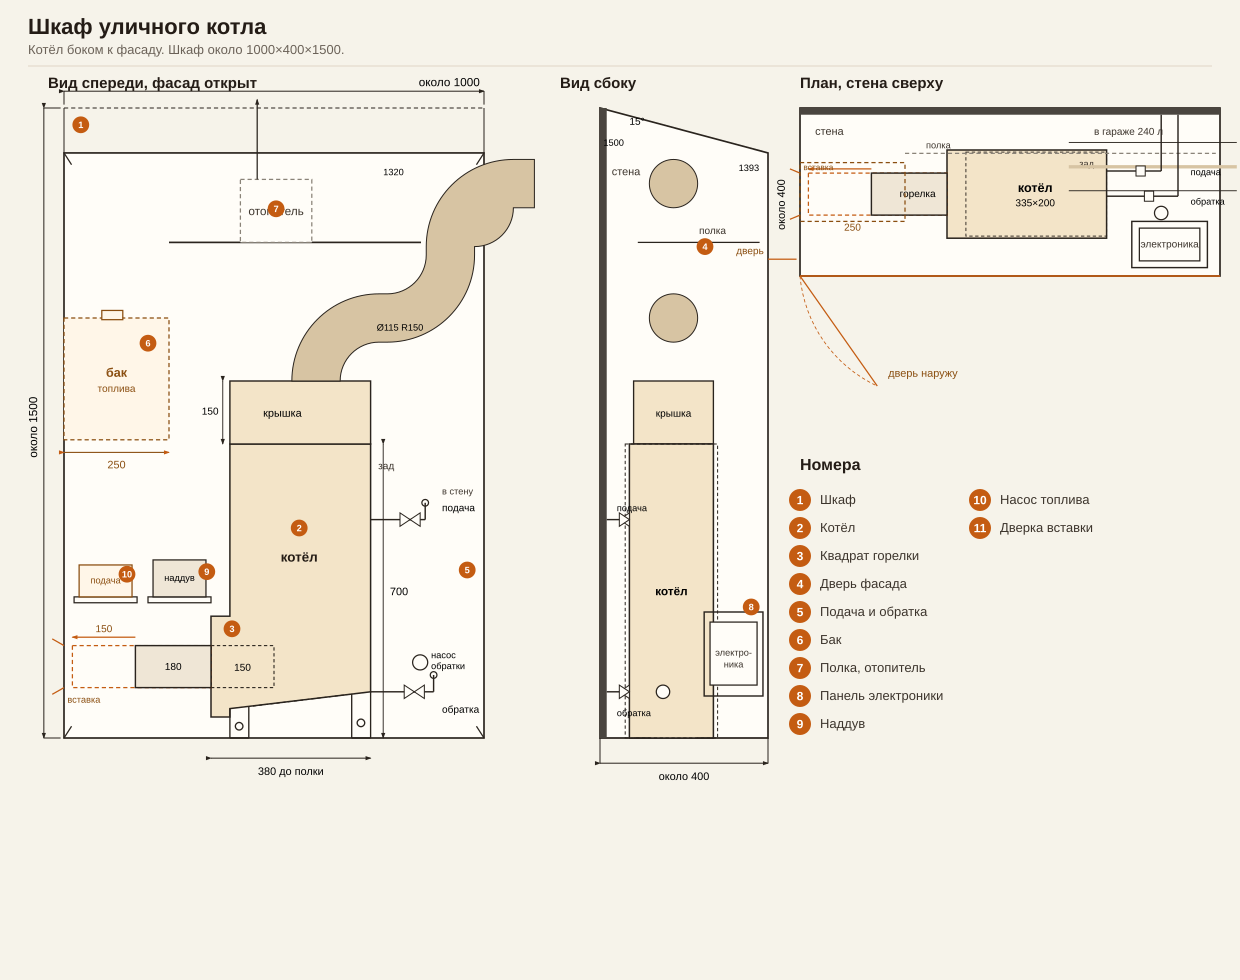
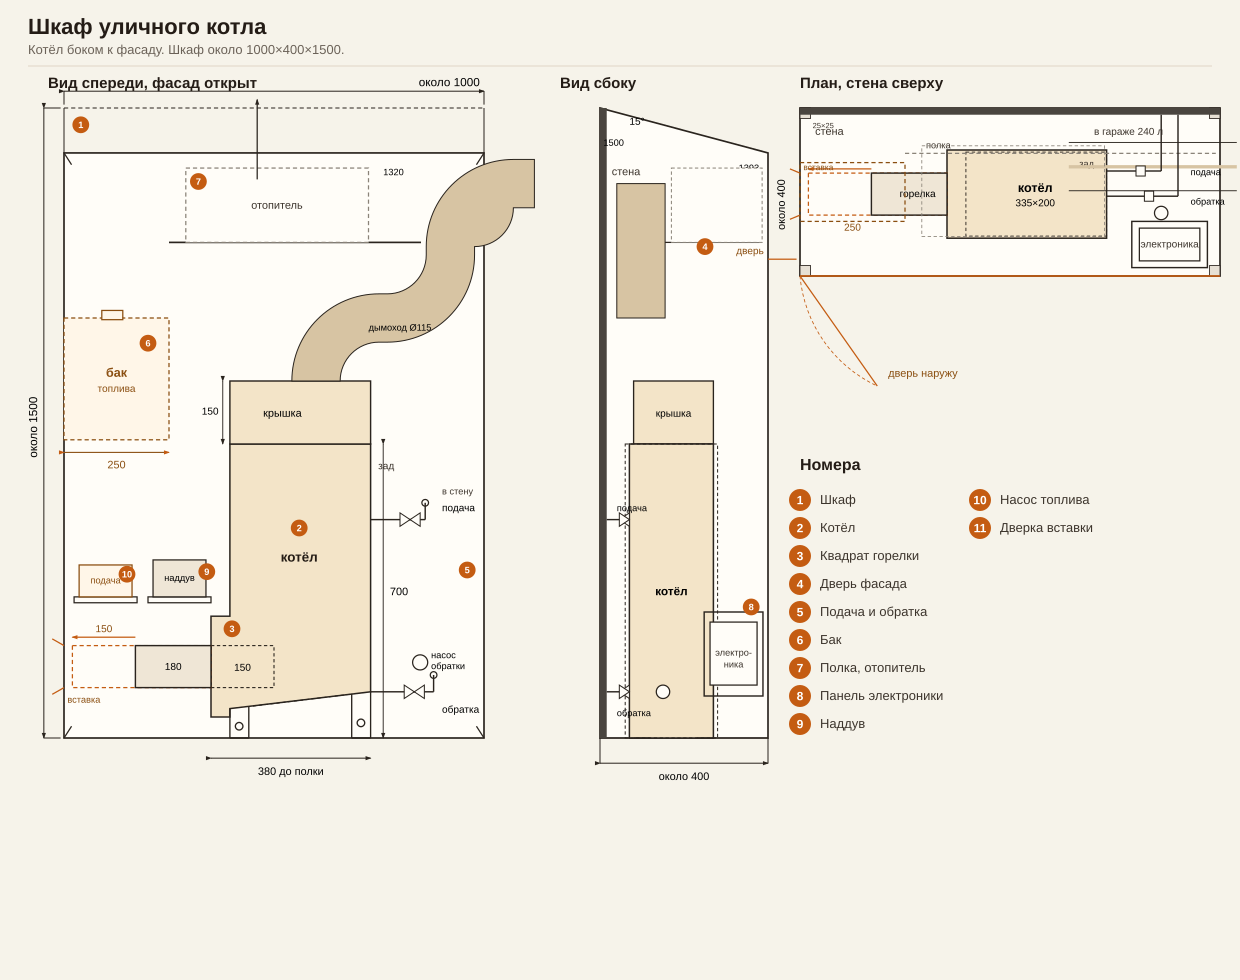
Шкаф: каркас 25×25, отопитель по шильдику, дымоход в стенку.
Проектный раскрой по чистым просветам, без толщины уголка. Дымоход Ø115 плавным изгибом выходит через правую стенку.

diff --git a/blueprints/boiler-cabinet/README.md b/blueprints/boiler-cabinet/README.md
@@ -8,4 +8,24 @@
 
 Шкаф **1000×400×1500** мм по заднему краю крыши. Крыша вперёд на **15°**, перед **1393**. Котёл боком: высота **700**, верх **335×200**, до полки **380**, шов сзади **590** и спереди **630**. Над котлом крышка **150**. Дымоход для компоновки **Ø115**, отводы **90°** с радиусом по оси **150**: вверх у задней части крышки, под полкой вправо, вдоль правой стенки вверх и наружу через неё. Ось выхода **1320** от пола. Это не обмер узла. Горелка: квадрат **180** наружу, внутрь **150**. Снятие — вытянуть на **150**: весь узел **330** остаётся внутри и выносится через фасад. Боковая дверка на той же оси — для вставки.
 
-Подача и обратка с заднего торца, кран, **90°** в стену. Над горелкой площадки подачи и наддува. Полка на ширине кроме полосы **250** под бак. Электроника у фасада. Накопитель **240** л в гараже.
+Подача и обратка с заднего торца, кран, **90°** в стену. Над горелкой площадки подачи и наддува. Полка на ширине кроме полосы **250** под бак. На полке отопитель **435×216×177** — компоновочная ориентация шильдика, штуцеры не размечены. Электроника у фасада. Накопитель **240** л в гараже.
+
+Каркас — уголок **25×25**, толщина не задана. Ниже проектный раскрой: длины по чистым просветам между стойками, от толщины не зависят. К распилу не готов: нет пропила, длины хлыста и проверки несущей способности.
+
+Стык простой, встык. Стойки по наружным углам. Ригели стоят между ними. Наклонные мерить по продольной кромке, оба реза 15° в одну сторону.
+
+| Поз. | Что | Длина, мм | Шт. | Рез А | Рез Б | Кромка |
+| --- | --- | --- | --- | --- | --- | --- |
+| П1 | Стойка задняя | 1500 | 2 | 90° | 15° | длинная вертикальная |
+| П2 | Стойка передняя | 1393 | 2 | 90° | 15° | длинная вертикальная |
+| Н1 | Низ, по ширине | 950 | 2 | 90° | 90° | любая |
+| Н2 | Низ, по глубине | 350 | 2 | 90° | 90° | любая |
+| В1 | Верх, зад | 950 | 1 | 90° | 90° | любая |
+| В2 | Верх, перед | 950 | 1 | 90° | 90° | любая |
+| В3 | Верх, скат | 362 | 2 | 15° | 15° | продольная, резы параллельны |
+| С1 | Полка, вдоль | 700 | 2 | 90° | 90° | любая |
+| С2 | Полка, поперёк | 350 | 3 | 90° | 90° | любая |
+| Д1 | Дверка, стойка | 250 | 2 | 90° | 90° | любая |
+| Д2 | Дверка, ригель | 200 | 2 | 90° | 90° | любая |
+
+Просвет по ширине **950**, по глубине **350**, полка **700** после полосы 250. Скат **362** — это 350/cos 15°. Итого **14,36 м**. Площадки подачи и наддува в раскрой не входят: габарит приборов не задан.
